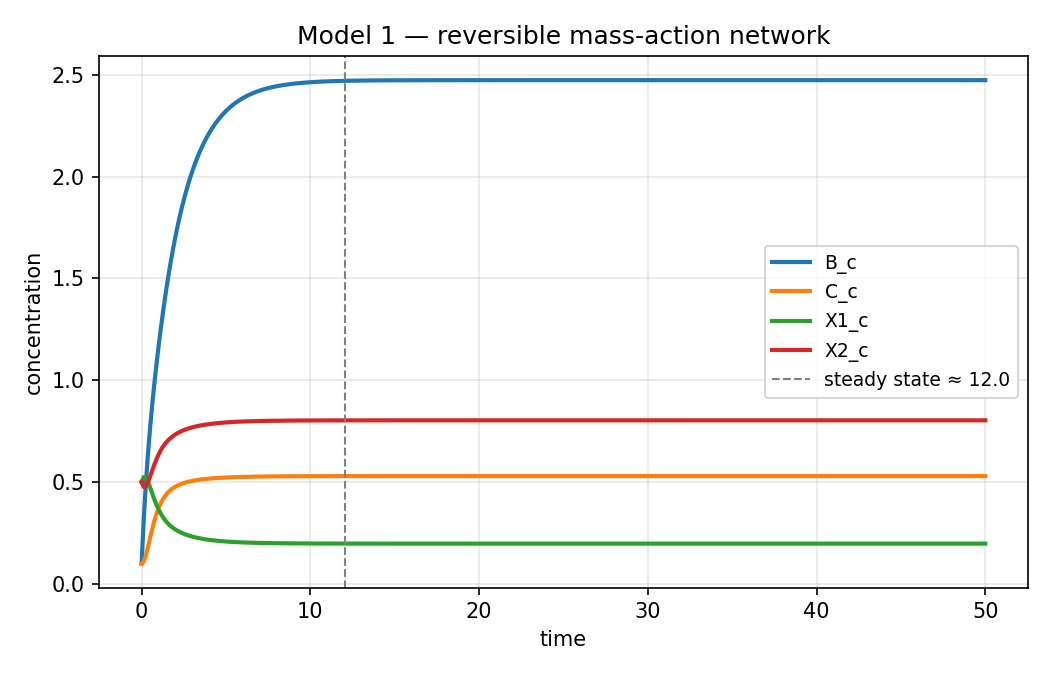
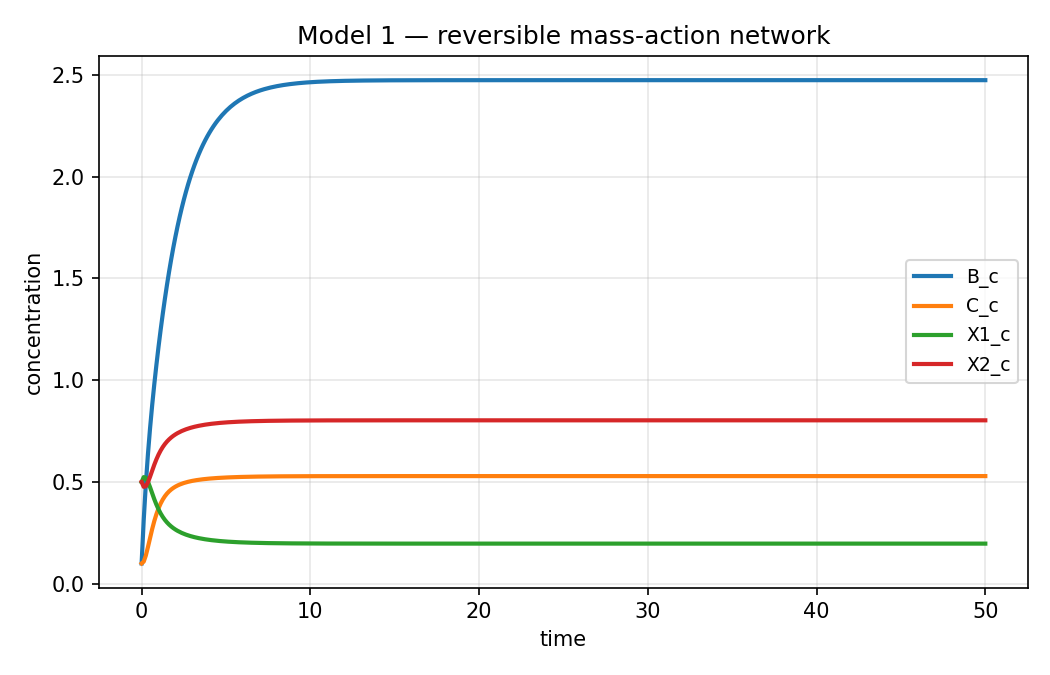
Remove misleading steady-state marker from figures
The _steady_state_time heuristic thresholded max|dy/dt| against its initial
value, which is huge for the starting guess, so it triggered at ~0.01 h while
metabolites were still visibly changing. Drop the function and the vertical
"steady state" line/label from both figures. The model 2 title keeps the
accurate "verified steady to t=5000 h" note, which is backed by the
max|dy/dt|=2e-12 check at t=5000 h.

Changed region(s): [[0.7314, 0.4356, 0.9752, 0.5911], [0.8533, 0.3733, 0.9752, 0.4978], [0.7314, 0.3733, 0.8229, 0.4356]]

diff --git a/make_figures.py b/make_figures.py
@@ -24,25 +24,14 @@ FIGDIR = os.path.join(os.path.dirname(__file__), "figures")
 os.makedirs(FIGDIR, exist_ok=True)
 
 
-def _steady_state_time(ts, ys, vector_field, args, tol=1e-3):
-    """First time at which max|dy/dt| drops below tol * (its initial value)."""
-    rates = jnp.array([jnp.max(jnp.abs(vector_field(t, y, args)))
-                       for t, y in zip(ts, ys)])
-    thresh = tol * float(rates[0])
-    below = jnp.where(rates <= thresh)[0]
-    return float(ts[int(below[0])]) if below.size else float(ts[-1])
-
-
 def figure_model1():
     p, bc = model1.default_params(), model1.default_boundary()
     sol = model1.simulate(p=p, bc=bc, t1=50.0, n_save=400)
     ts, ys = sol.ts, sol.ys
-    tss = _steady_state_time(ts, ys, model1.vector_field, (p, bc))
 
     fig, ax = plt.subplots(figsize=(7, 4.5))
     for i, name in enumerate(["B_c", "C_c", "X1_c", "X2_c"]):
         ax.plot(ts, ys[:, i], label=name, lw=2)
-    ax.axvline(tss, color="grey", ls="--", lw=1, label=f"steady state ≈ {tss:.1f}")
     ax.set_xlabel("time")
     ax.set_ylabel("concentration")
     ax.set_title("Model 1 — reversible mass-action network")
@@ -52,7 +41,7 @@ def figure_model1():
     out = os.path.join(FIGDIR, "model1_trajectory.png")
     fig.savefig(out, dpi=150)
     plt.close(fig)
-    print(f"model1: steady state at t≈{tss:.2f}; wrote {out}")
+    print(f"model1: wrote {out}")
 
 
 def figure_model2():
@@ -64,13 +53,11 @@ def figure_model2():
     # ... then plot the transient window where the approach is visible.
     sol = model2.simulate(p, t1=6.0, n_save=600)
     ts, ys = sol.ts, sol.ys
-    tss = _steady_state_time(ts, ys, model2.vector_field, p)
     print(f"model2: max|dy/dt| at t=5000 h = {max_rate:.2e} mM/h (steady)")
 
     fig, ax = plt.subplots(figsize=(8, 5))
     for i, name in enumerate(model2.SPECIES):
         ax.plot(ts, ys[:, i], label=name, lw=1.5)
-    ax.axvline(tss, color="grey", ls="--", lw=1, label=f"steady state ≈ {tss:.2f} h")
     ax.set_yscale("log")
     ax.set_xlabel("time (h)")
     ax.set_ylabel("concentration (mM, log scale)")
@@ -82,7 +69,7 @@ def figure_model2():
     out = os.path.join(FIGDIR, "model2_trajectory.png")
     fig.savefig(out, dpi=150)
     plt.close(fig)
-    print(f"model2: steady state at t≈{tss:.1f} h; wrote {out}")
+    print(f"model2: wrote {out}")
 
 
 if __name__ == "__main__":
